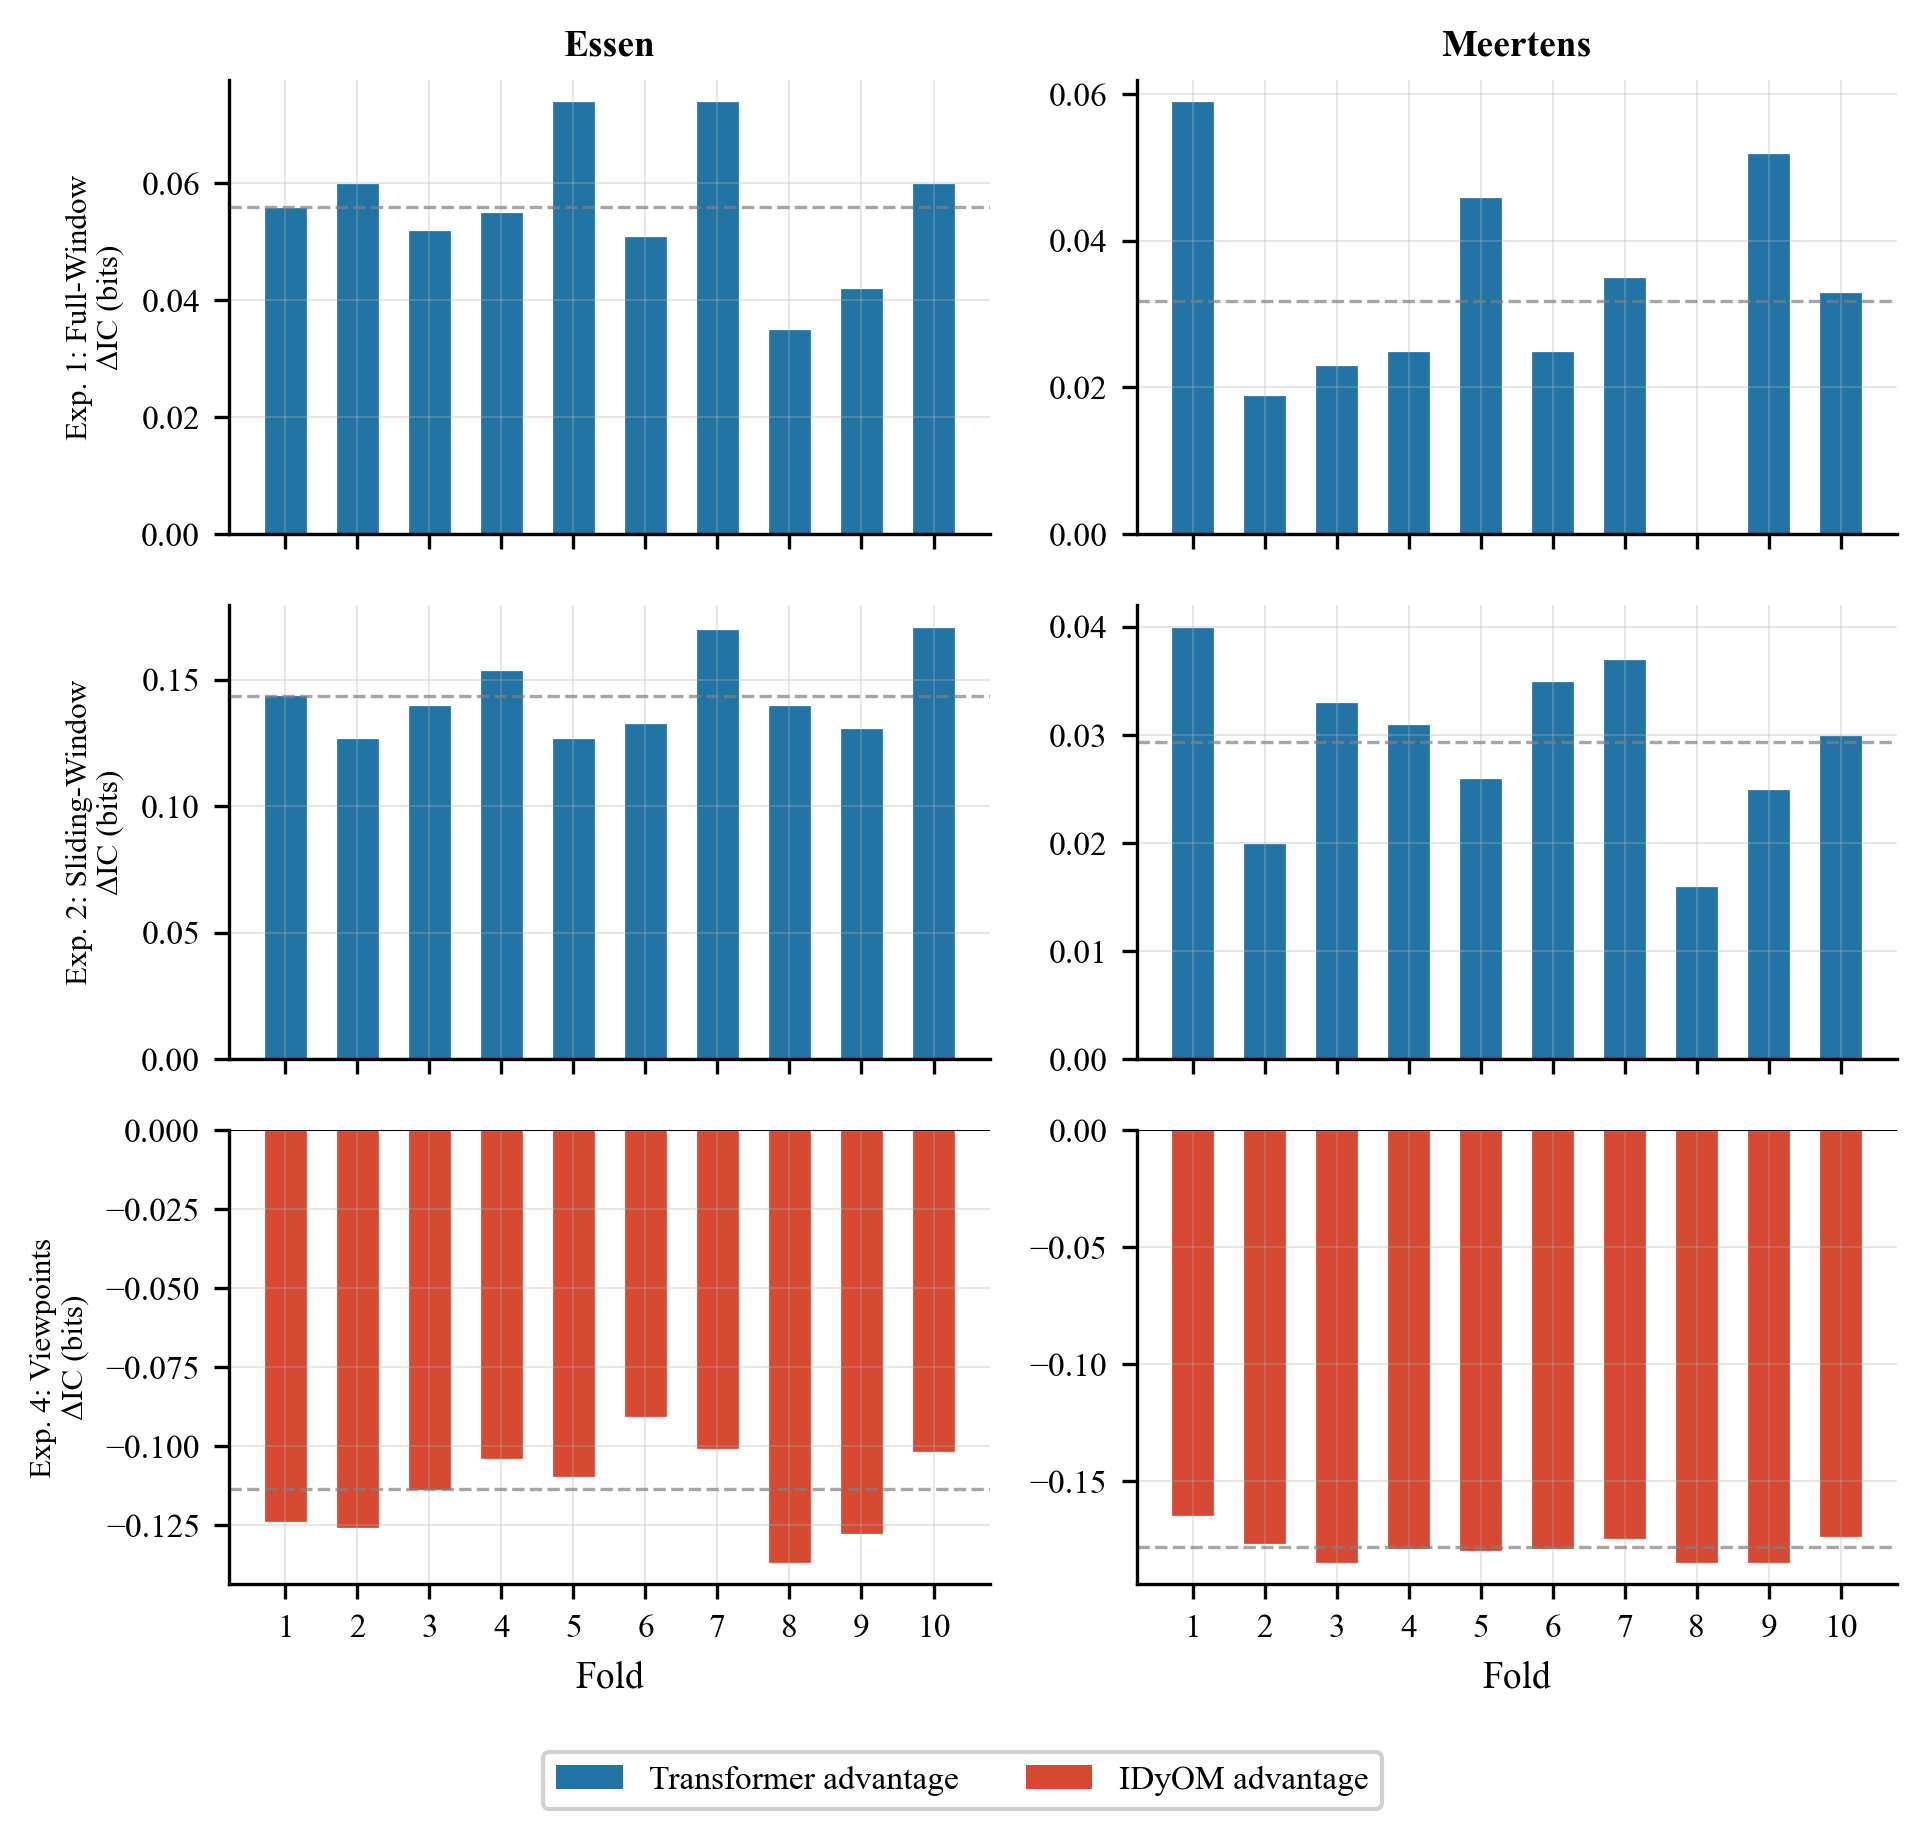
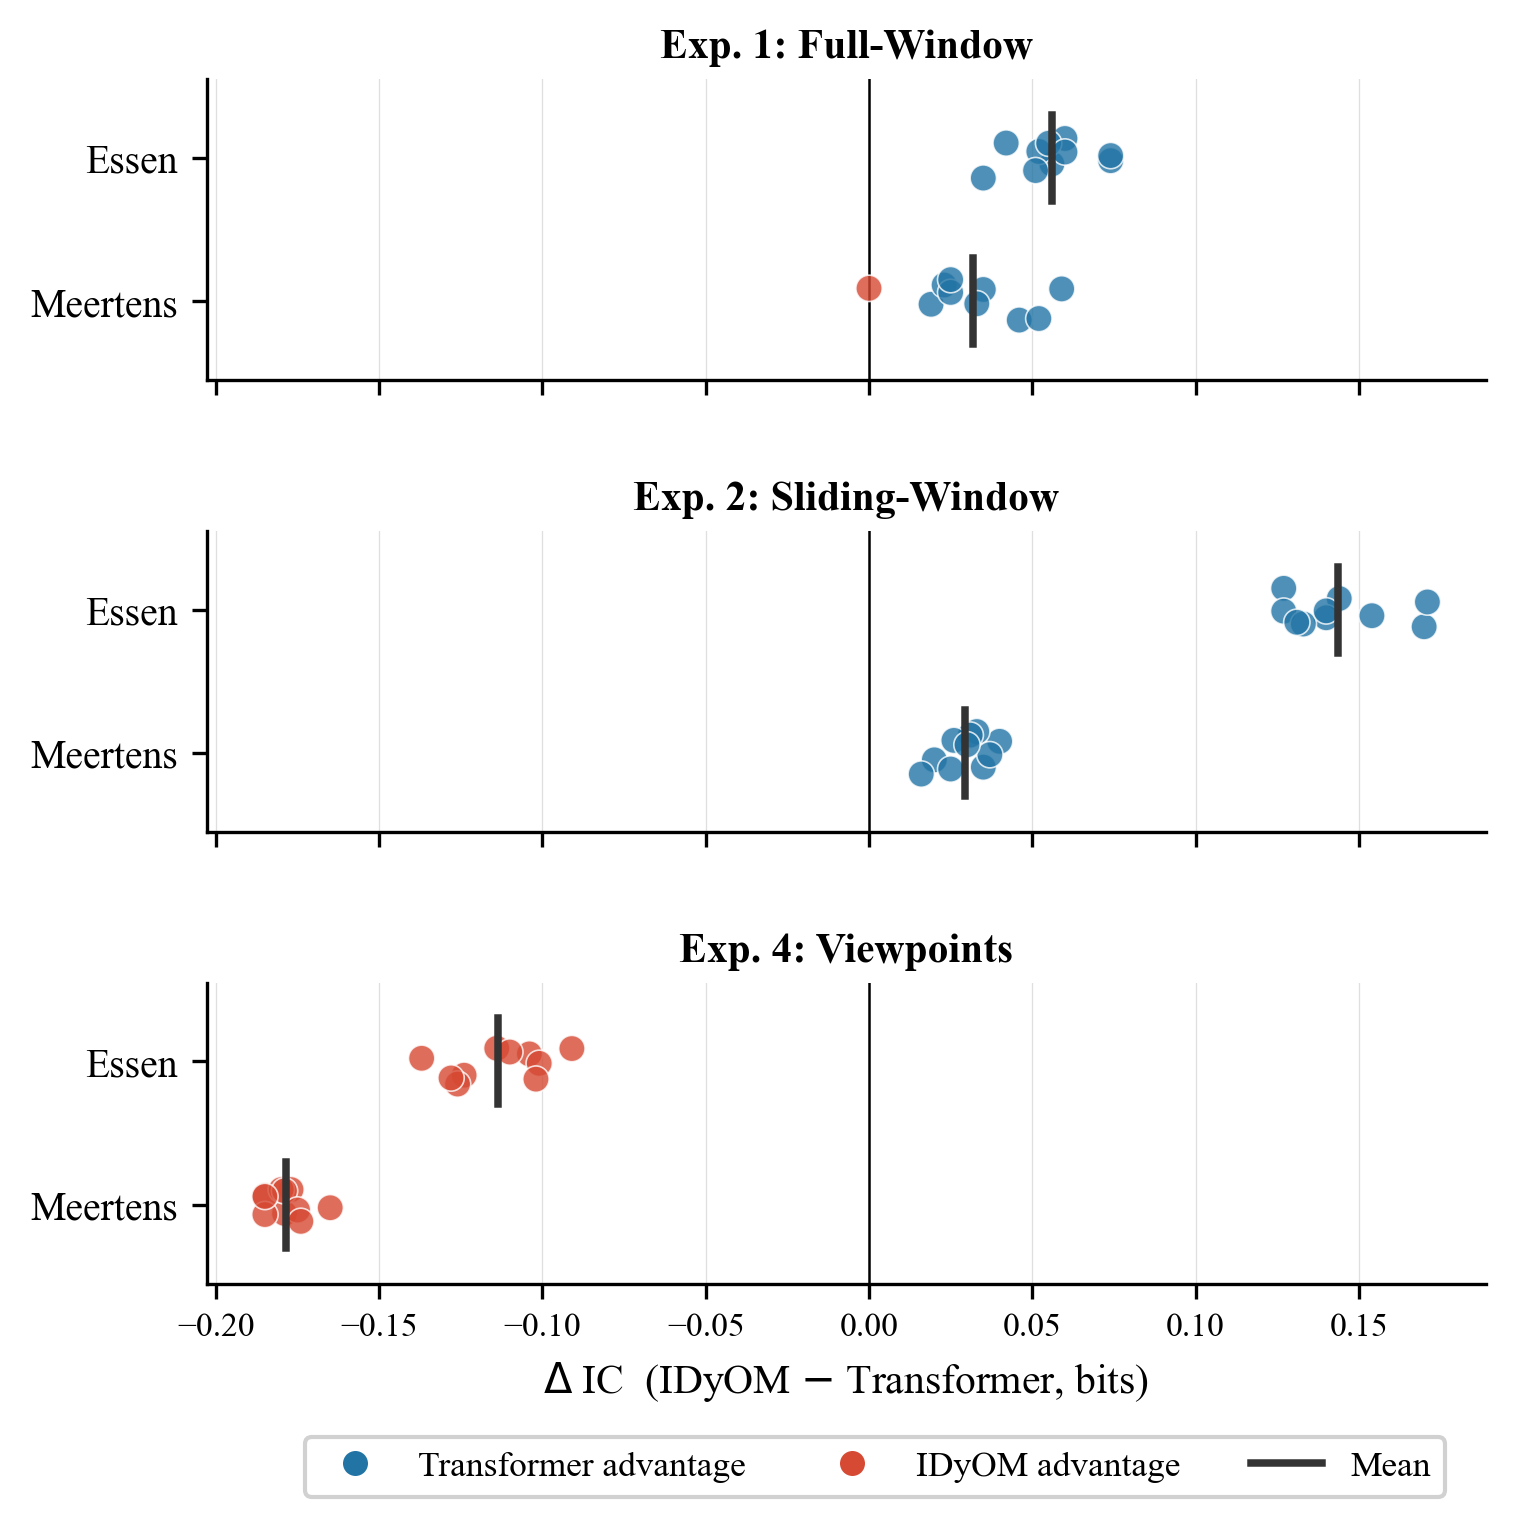
update ic difference plot for readability

diff --git a/helpers/relevant_plots.py b/helpers/relevant_plots.py
@@ -2,6 +2,8 @@ import matplotlib.pyplot as plt
 import matplotlib.ticker as ticker
 import numpy as np
 from pathlib import Path
+from matplotlib.patches import Patch
+from matplotlib.lines import Line2D
 
 # ==========================================
 # Style configuration for double-column ACM 
@@ -159,7 +161,6 @@ def plot_perfold_combined():
             if row == 2:
                 ax.set_xlabel('Fold')
 
-    # Single legend at bottom
     handles, labels = axes[0][0].get_legend_handles_labels()
     fig.legend(handles, labels, loc='lower center', ncol=2,
               bbox_to_anchor=(0.5, -0.02), framealpha=0.9)
@@ -281,48 +282,65 @@ plot_cross_corpus_degradation()
 # ==========================================
 
 def plot_ic_difference():
-    """Dot plot showing IC difference (IDyOM - Transformer) per fold.
-    Positive = Transformer wins. Negative = IDyOM wins."""
-    fig, axes = plt.subplots(3, 2, figsize=(6.5, 6), sharex=True)
+    """Horizontal strip plot: ΔIC per fold, stacked by experiment,
+    Essen & Meertens as rows within each panel, shared x-axis."""
+    rng = np.random.default_rng(42)
 
     experiments = [
         ('exp1', 'Exp. 1: Full-Window'),
         ('exp2', 'Exp. 2: Sliding-Window'),
         ('exp4', 'Exp. 4: Viewpoints'),
     ]
-    corpora = [('essen', 'Essen'), ('meertens', 'Meertens')]
+    corpora = [('meertens', 'Meertens'), ('essen', 'Essen')]  # bottom to top
+
+    fig, axes = plt.subplots(3, 1, figsize=(5.5, 5.5), sharex=True)
+    fig.subplots_adjust(hspace=0.5, bottom=0.15)
 
     for row, (exp_key, exp_label) in enumerate(experiments):
-        for col, (corpus, corpus_label) in enumerate(corpora):
-            ax = axes[row][col]
+        ax = axes[row]
+
+        for y_pos, (corpus, corpus_label) in enumerate(corpora):
             t_vals = np.array(data[exp_key][corpus]['transformer'])
             i_vals = np.array(data[exp_key][corpus]['idyom'])
-            diff = i_vals - t_vals  # positive = Transformer wins
+            diff = i_vals - t_vals
 
             colors = [C_TRANSFORMER if d > 0 else C_IDYOM for d in diff]
-            ax.bar(folds, diff, color=colors, edgecolor='white', linewidth=0.3, width=0.6)
-            ax.axhline(0, color='black', linewidth=0.5)
-            ax.axhline(np.mean(diff), color='gray', linestyle='--', linewidth=0.8, alpha=0.7)
+            jitter = rng.uniform(-0.16, 0.16, size=len(diff))
 
-            ax.set_xticks(folds)
-            if row == 0:
-                ax.set_title(corpus_label, fontsize=9, fontweight='bold')
-            if col == 0:
-                ax.set_ylabel(f'{exp_label}\nΔIC (bits)', fontsize=7.5)
-            if row == 2:
-                ax.set_xlabel('Fold')
+            ax.scatter(diff, y_pos + jitter, c=colors, s=40, alpha=0.8,
+                       zorder=3, linewidths=0.4, edgecolors='white')
 
-    # Custom legend
-    from matplotlib.patches import Patch
+            # mean tick – extends beyond the jitter cloud
+            ax.plot([np.mean(diff)] * 2, [y_pos - 0.30, y_pos + 0.30],
+                    color='#333333', linewidth=1.8, zorder=5)
+
+        ax.axvline(0, color='black', linewidth=0.6)
+        ax.set_yticks([0, 1])
+        ax.set_yticklabels(['Meertens', 'Essen'], fontsize=9.5)
+        ax.set_ylim(-0.55, 1.55)
+        ax.set_title(exp_label, fontsize=10, fontweight='bold', pad=5)
+        ax.spines['top'].set_visible(False)
+        ax.spines['right'].set_visible(False)
+        ax.grid(axis='x', linewidth=0.3, alpha=0.4)
+        ax.grid(axis='y', visible=False)
+
+    axes[-1].set_xlabel(
+        '$\\Delta$ IC  (IDyOM $-$ Transformer, bits)', fontsize=10)
+
     legend_elements = [
-        Patch(facecolor=C_TRANSFORMER, label='Transformer advantage'),
-        Patch(facecolor=C_IDYOM, label='IDyOM advantage'),
+        Line2D([0], [0], marker='o', color='w',
+               markerfacecolor=C_TRANSFORMER, markersize=7,
+               label='Transformer advantage'),
+        Line2D([0], [0], marker='o', color='w',
+               markerfacecolor=C_IDYOM, markersize=7,
+               label='IDyOM advantage'),
+        Line2D([0], [0], color='#333333', linewidth=1.8, label='Mean'),
     ]
-    fig.legend(handles=legend_elements, loc='lower center', ncol=2,
-              bbox_to_anchor=(0.5, -0.02), framealpha=0.9, fontsize=8)
+    fig.legend(handles=legend_elements, loc='lower center', ncol=3,
+               bbox_to_anchor=(0.53, 0.01), fontsize=8.5, framealpha=0.9)
 
-    plt.tight_layout(rect=[0, 0.03, 1, 1])
-    plt.savefig(f'{OUTPUT_DIR}/ic_difference_perfold.png', dpi=300, bbox_inches='tight')
+    plt.savefig(f'{OUTPUT_DIR}/ic_difference_perfold.png',
+                dpi=300, bbox_inches='tight')
     plt.close()
 
 plot_ic_difference()